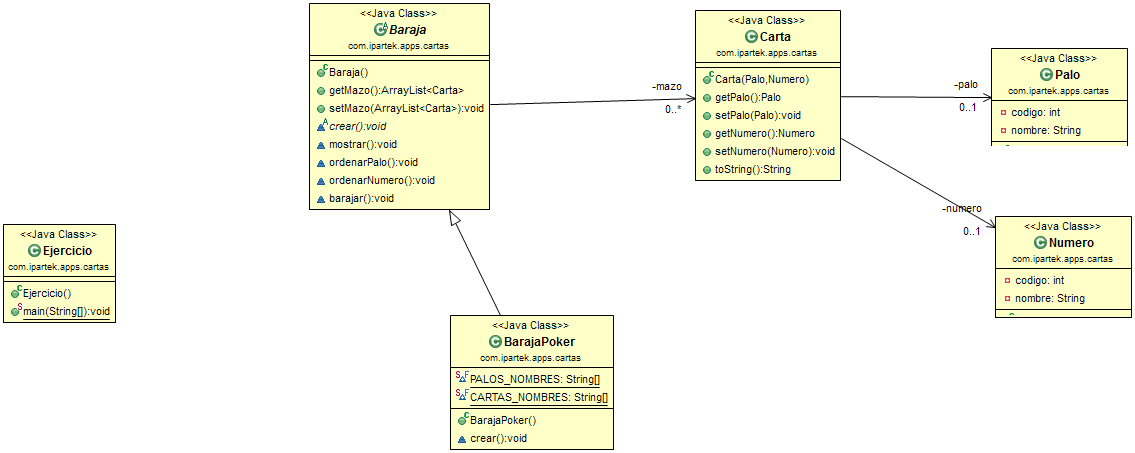
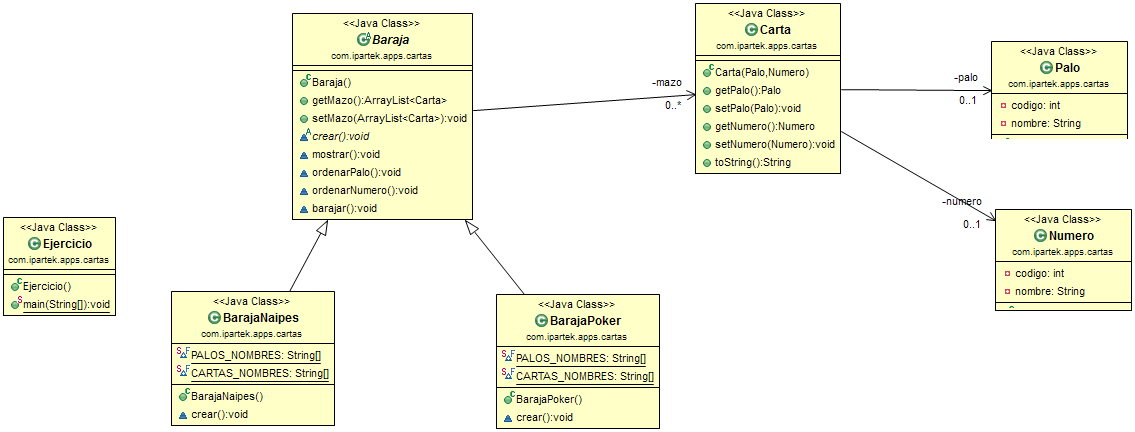
implementado BarajaPoker, BrajaNaipes mostrar y crear, TODO ema de ordenacion y barajear

diff --git a/src/com/ipartek/apps/cartas/Baraja.java b/src/com/ipartek/apps/cartas/Baraja.java
@@ -29,17 +29,10 @@ public abstract class Baraja {
 	 */
 	void mostrar() {
 		
-		String paloNombre = "";
 		for( Carta c : getMazo() ) {
 			
-			if ( !paloNombre.equals(c.getPalo().getNombre())) {
-				paloNombre = c.getPalo().getNombre();
-				System.out.println("------------------------------------------------");
-				System.out.println(paloNombre);
-				System.out.println("------------------------------------------------");
-			}else {
-				System.out.printf("%s %n", c.getNumero().getNombre());
-			}
+			System.out.printf("%s de %s %n", c.getNumero().getNombre(), c.getPalo().getNombre() );
+			
 		}
 		System.out.println("------------------------------------------------");
 		System.out.printf(" Total %s Cartas en le mazo \n" , getMazo().size());

diff --git a/src/com/ipartek/apps/cartas/BarajaNaipes.java b/src/com/ipartek/apps/cartas/BarajaNaipes.java
@@ -1,0 +1,33 @@
+package com.ipartek.apps.cartas;
+
+import java.util.ArrayList;
+
+public class BarajaNaipes extends Baraja {
+
+	static final String PALOS_NOMBRES[] = {"bastos","copas","oros","espadas"};
+	static final String CARTAS_NOMBRES[] = {"as","dos","tres","cuatro","cinco","seis","siete","sota","caballo","rey"}; 
+	
+	
+	@Override
+	void crear() {
+		
+		ArrayList<Carta> mazo = getMazo();
+		
+		for (int i = 0; i < PALOS_NOMBRES.length; i++) {
+			
+			Palo p = new Palo( (i+1) , PALOS_NOMBRES[i]);
+			
+			for (int j = 0; j < CARTAS_NOMBRES.length; j++) {
+				
+				Numero n = new Numero( (j+1), CARTAS_NOMBRES[j]);
+				Carta c = new Carta(p, n);
+				mazo.add(c);
+			}
+			
+		}
+		
+		setMazo(mazo);
+		
+	}
+
+}

diff --git a/src/com/ipartek/apps/cartas/Ejercicio.java b/src/com/ipartek/apps/cartas/Ejercicio.java
@@ -5,6 +5,11 @@ public class Ejercicio {
 	public static void main(String[] args) {
 
 
+		BarajaNaipes bn = new BarajaNaipes();
+		bn.crear();
+		bn.mostrar();
+		
+		
 		BarajaPoker bp = new BarajaPoker();
 		bp.crear();		
 		bp.mostrar();
